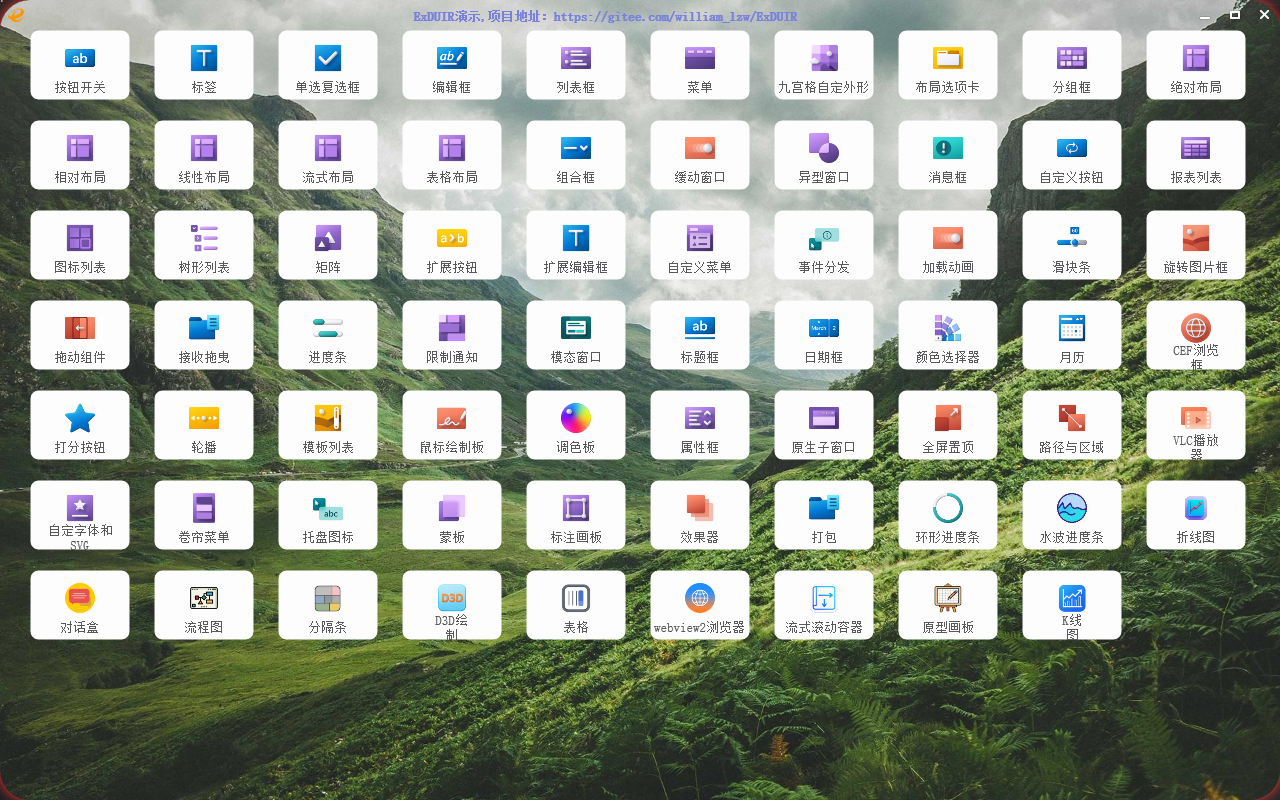
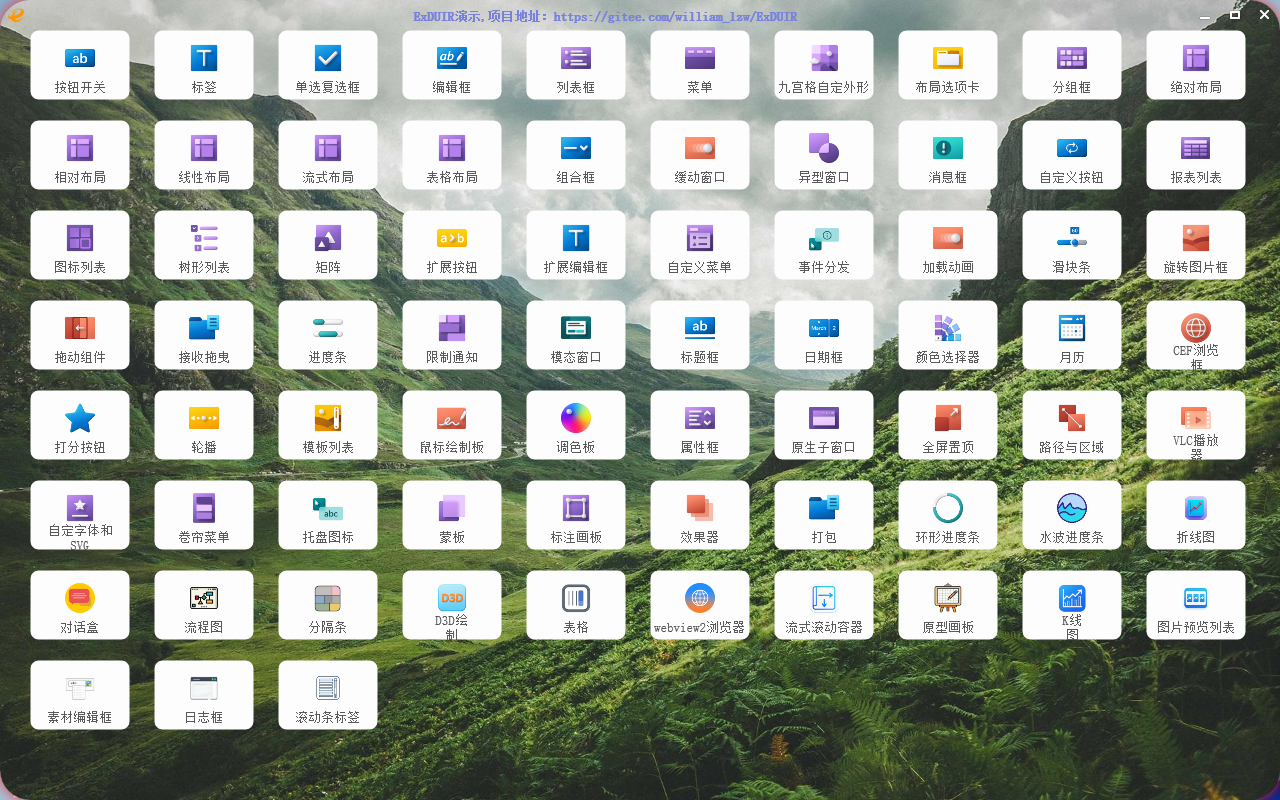
增加滚动条标签

diff --git a/msvc/demo/main.cpp b/msvc/demo/main.cpp
@@ -17,7 +17,7 @@ const std::vector<std::wstring> buttonData = {
     L"标注画板",       L"效果器",     L"打包",          L"环形进度条", L"水波进度条", L"折线图",
     L"对话盒",         L"流程图",     L"分隔条",        L"D3D绘制" , L"表格",       L"webview2浏览器",
     L"流式滚动容器",   L"原型画板",   L"K线图",         L"图片预览列表", L"素材编辑框", L"日志框",
-    L"测试滚动条标签"
+    L"滚动条标签"
 };
 
 LRESULT CALLBACK OnMainWndMsgProc(HWND hWnd, HEXDUI hExDui, INT uMsg, WPARAM wParam, LPARAM lParam,

diff --git a/README.md b/README.md
@@ -214,3 +214,5 @@ Ex_ObjRegister注册组件类,在回调callback的WM_PAINT消息里绘制组件,
 ![image](demo_image/demo_editmaterial2.png)
 ### demo consolebox:
 ![image](demo_image/demo_consolebox.png)
+### demo scrollbarlabel:
+![image](demo_image/demo_scrollbarlabel.png)

diff --git a/README_EN.md b/README_EN.md
@@ -208,3 +208,5 @@ The drawing component starts by calling Ex_ObjBeginPaint, passing in the drawing
 ![image](demo_image/demo_editmaterial2.png)
 ### demo consolebox:
 ![image](demo_image/demo_consolebox.png)
+### demo scrollbarlabel:
+![image](demo_image/demo_scrollbarlabel.png)